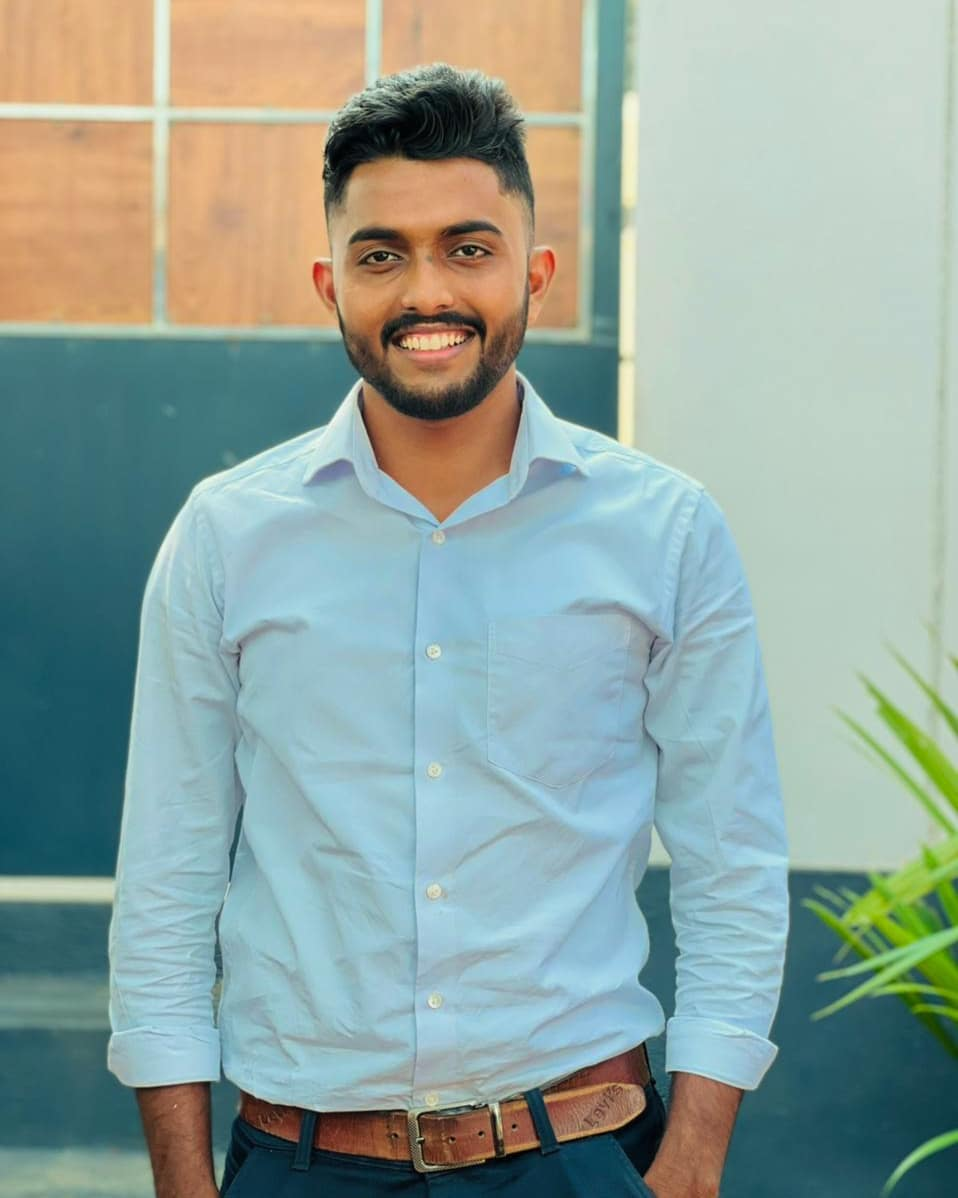
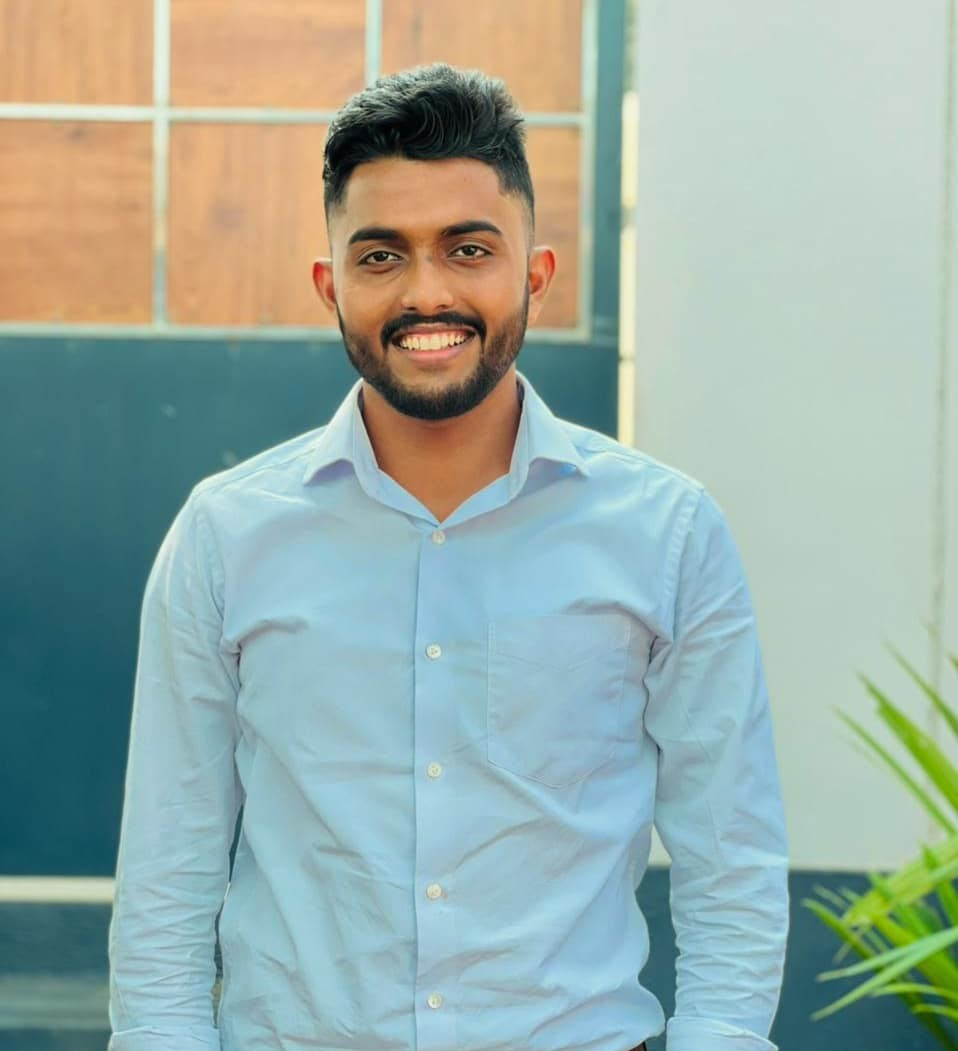
todays commit

diff --git a/src/pages/Inll.jsx b/src/pages/Inll.jsx
@@ -10,12 +10,13 @@ import {
   FaHandshake,
   FaDatabase,
   FaMoneyBillWave,
+  FaUser,
 } from "react-icons/fa";
 import bannerImage from "../assets/images/INLL Logo.png";
 import wawuLogo from "../assets/images/Wawu black.png";
 import whyINLLImage from "../assets/images/hero4.jpg";
 import highlightsImage from "../assets/images/hero5.jpg";
-import supportImage from "../assets/images/hero3.jpg";
+import supportImage from "../assets/images/WAWU P3.jpg";
 import registrationImage from "../assets/images/INLL Logo.png";
 
 const INLLBrochure = () => {
@@ -24,7 +25,7 @@ const INLLBrochure = () => {
   return (
     <div className="font-sans text-black">
       {/* Hero Section */}
-      <header className="relative bg-cover bg-gradient-to-r from-[#bbbaba] to-[#0A4A6E] bg-center h-auto flex flex-col items-center justify-between px-4 sm:px-8 py-8 sm:py-12 z-10">
+      <header className="relative bg-cover bg-gradient-to-r from-[#7f7f7f] to-[#0A4A6E] bg-center h-auto flex flex-col items-center rounded-tr-full rounded-bl-full justify-between px-4 sm:px-8 py-8 sm:py-12 z-10">
         <div className="w-full max-w-screen-lg">
           {/* Left Content */}
           <div className="bg-opacity-50 p-4 sm:p-8 rounded-lg text-center md:text-left">
@@ -102,7 +103,7 @@ const INLLBrochure = () => {
         </motion.div>
       </section>
 
-      {/* Highlights Section */}
+      {/* Why INLL Section */}
       <section className="max-w-6xl mx-auto py-12 sm:py-20 px-4 sm:px-8">
         <motion.h2
           className="text-3xl sm:text-4xl md:text-5xl font-extrabold mb-8 sm:mb-12 text-center text-black tracking-wider uppercase"
@@ -266,9 +267,10 @@ const INLLBrochure = () => {
       </section>
 
       {/* Post-Selection Support */}
-      <section className="max-w-6xl mx-auto py-12 sm:py-20 px-4 sm:px-8">
+      <section className="max-w-6xl mx-auto py-16 sm:py-24 px-6 sm:px-12">
+        {/* Title */}
         <motion.h2
-          className="text-3xl sm:text-4xl md:text-5xl font-extrabold mb-8 sm:mb-12 text-center text-black tracking-wide uppercase"
+          className="text-3xl sm:text-4xl md:text-5xl font-extrabold text-center text-gray-900 mb-12 tracking-wide"
           initial={{ opacity: 0, y: -30 }}
           whileInView={{ opacity: 1, y: 0 }}
           transition={{ duration: 0.8 }}
@@ -276,144 +278,137 @@ const INLLBrochure = () => {
           Post-Selection Support
         </motion.h2>
 
-        <div className="flex flex-col-reverse md:flex-row items-center gap-8 sm:gap-12">
-          {/* Left Side: Feature Cards */}
+        <div className="grid grid-cols-1 md:grid-cols-2 gap-12 items-center">
+          {/* Left: Image */}
           <motion.div
-            className="w-full md:w-1/2 grid grid-cols-1 sm:grid-cols-2 gap-4 sm:gap-6"
-            initial={{ opacity: 0, x: -50 }}
+            className="relative flex justify-center"
+            initial={{ opacity: 0, scale: 0.9 }}
+            whileInView={{ opacity: 1, scale: 1 }}
+            transition={{ duration: 0.7 }}
+          >
+            <img
+              src={supportImage}
+              alt="Post-Selection Support"
+              className="rounded-2xl shadow-2xl max-w-xs sm:max-w-md md:max-w-lg lg:max-w-xl h-auto hover:scale-105 transition-transform duration-500"
+            />
+          </motion.div>
+
+          {/* Right: Benefits List */}
+          <motion.div
+            className="space-y-8"
+            initial={{ opacity: 0, x: 50 }}
             whileInView={{ opacity: 1, x: 0 }}
             transition={{ duration: 0.7 }}
           >
             {[
               {
-                icon: (
-                  <FaDatabase className="text-3xl sm:text-4xl text-blue-400" />
-                ),
+                icon: <FaDatabase className="text-4xl text-blue-500" />,
                 title: "Continuous Tracking",
                 description:
-                  "Recorded in WAWU database for ongoing development.",
+                  "Your journey is recorded in WAWU’s database for ongoing growth and development.",
               },
               {
-                icon: (
-                  <FaMoneyBillWave className="text-3xl sm:text-4xl text-yellow-400" />
-                ),
+                icon: <FaMoneyBillWave className="text-4xl text-yellow-500" />,
                 title: "Funding & Training",
                 description:
-                  "Receive funding for training, accommodation, and education.",
+                  "We provide funding support for training, accommodation, and education.",
               },
               {
-                icon: (
-                  <FaUsers className="text-3xl sm:text-4xl text-green-400" />
-                ),
+                icon: <FaUsers className="text-4xl text-green-500" />,
                 title: "Professional Network",
                 description:
-                  "Connect with mentors and clubs for career growth.",
+                  "Gain exclusive access to mentors, clubs, and career opportunities.",
               },
             ].map((item, index) => (
-              <motion.div
+              <div
                 key={index}
-                className="bg-gray-900 bg-opacity-80 p-4 sm:p-6 rounded-xl shadow-lg hover:shadow-2xl border border-gray-700 transition-all duration-300 hover:scale-105 transform"
-                initial={{ opacity: 0, x: -20 }}
-                whileInView={{ opacity: 1, x: 0 }}
-                transition={{ duration: 0.5, delay: index * 0.2 }}
+                className="flex items-center space-x-6 p-4 rounded-xl bg-white shadow-lg hover:shadow-2xl transition-shadow duration-300"
               >
-                <div className="flex justify-center mb-4">{item.icon}</div>
-                <h3 className="text-lg sm:text-xl font-semibold text-center text-white">
-                  {item.title}
-                </h3>
-                <p className="text-xs sm:text-sm text-gray-400 text-center mt-2">
-                  {item.description}
-                </p>
-              </motion.div>
+                <div className="bg-gradient-to-br from-gray-200 to-gray-100 p-4 rounded-full shadow-md">
+                  {item.icon}
+                </div>
+                <div>
+                  <h3 className="text-xl font-semibold text-gray-900">{item.title}</h3>
+                  <p className="text-gray-600">{item.description}</p>
+                </div>
+              </div>
             ))}
-          </motion.div>
-
-          {/* Right Side: Image */}
-          <motion.div
-            className="w-full md:w-1/2 relative"
-            initial={{ opacity: 0, scale: 0.8 }}
-            whileInView={{ opacity: 1, scale: 1 }}
-            transition={{ duration: 0.7 }}
-          >
-            <div className="absolute inset-0 bg-gradient-to-r from-blue-500 to-purple-600 opacity-40 rounded-lg blur-lg"></div>
-            <img
-              src={supportImage}
-              alt="Post-Selection Support"
-              className="rounded-lg shadow-2xl w-full h-auto transform hover:scale-105 transition-transform duration-500"
-            />
           </motion.div>
         </div>
       </section>
 
-      {/* Registration */}
-      <section className="max-w-6xl mx-auto py-12 sm:py-20 px-4 sm:px-8">
+
+      <section className="max-w-7xl mx-auto py-16 px-6 sm:px-12 lg:px-16">
+        {/* Section Heading */}
         <motion.h2
-          className="text-3xl sm:text-4xl md:text-5xl font-extrabold mb-8 sm:mb-12 text-center text-black tracking-wide uppercase"
+          className="text-4xl sm:text-5xl font-bold mb-12 text-center text-gray-900 tracking-wide uppercase"
           initial={{ opacity: 0, y: -30 }}
           whileInView={{ opacity: 1, y: 0 }}
           transition={{ duration: 0.8 }}
         >
-          Register Now !!!
+          Registration
         </motion.h2>
-        <div className="flex flex-col md:flex-row items-center gap-6 sm:gap-8">
-          {/* Left Side: Image with Hover Effect */}
-          <div className="w-full md:w-1/2 transform transition-transform duration-300 hover:scale-105">
+
+        <div className="flex flex-col md:flex-row items-center gap-10">
+          {/* Left Side: Image */}
+          <motion.div
+            className="w-full md:w-1/2 overflow-hidden rounded-xl shadow-xl"
+            initial={{ opacity: 0, scale: 0.9 }}
+            whileInView={{ opacity: 1, scale: 1 }}
+            transition={{ duration: 0.7 }}
+          >
             <img
               src={registrationImage}
               alt="Registration"
-              className="rounded-lg shadow-2xl w-full h-auto"
+              className="w-full h-auto object-cover transform hover:scale-105 transition-transform duration-500"
             />
-          </div>
+          </motion.div>
 
-          {/* Right Side: Registration Details with Gradient Background */}
-          <div className="w-full md:w-1/2 bg-gradient-to-r from-[#11698E] to-[#0A4A6E] p-6 sm:p-8 rounded-lg shadow-2xl text-center transform transition-transform duration-300 hover:scale-105">
-            <h2 className="text-2xl sm:text-3xl md:text-4xl font-semibold mb-6 sm:mb-8 text-white">
-              How to Register
-            </h2>
+          {/* Right Side: Registration Options */}
+          <motion.div
+            className="w-full md:w-1/2 bg-gradient-to-r from-[#0F3460] to-[#16213E] p-8 sm:p-12 rounded-xl shadow-xl text-center border border-gray-700"
+            initial={{ opacity: 0, x: 50 }}
+            whileInView={{ opacity: 1, x: 0 }}
+            transition={{ duration: 0.7 }}
+          >
+            <h3 className="text-3xl font-semibold text-white mb-6">
+              Choose Your Registration Type
+            </h3>
 
-            {/* Registration Steps with Icons */}
-            <div className="space-y-4 sm:space-y-6">
-              <div className="flex items-center space-x-4">
-                <div className="bg-white p-2 sm:p-3 rounded-full">
-                  <FaSearch className="text-xl sm:text-2xl text-[#11698E]" />
-                </div>
-                <p className="text-sm sm:text-lg text-white">
-                  Complete the registration form online.
-                </p>
-              </div>
+            <div className="flex flex-col sm:flex-row justify-center gap-6">
+              {/* Individual Button */}
+              <Link to="/register/individual">
+                <button className="flex items-center gap-3 bg-blue-500 hover:bg-blue-700 text-white font-semibold py-3 px-6 rounded-lg shadow-lg transition-all duration-300 transform hover:scale-110">
+                  <FaUser className="text-xl" /> Individual
+                </button>
+              </Link>
 
-              <div className="flex items-center space-x-4">
-                <div className="bg-white p-2 sm:p-3 rounded-full">
-                  <FaMoneyBillWave className="text-xl sm:text-2xl text-[#11698E]" />
-                </div>
-                <p className="text-sm sm:text-lg text-white">
-                  Participation is free of charge.
-                </p>
-              </div>
-
-              <div className="flex items-center space-x-4">
-                <div className="bg-white p-2 sm:p-3 rounded-full">
-                  <FaGlobe className="text-xl sm:text-2xl text-[#11698E]" />
-                </div>
-                <p className="text-sm sm:text-lg text-white">
-                  Attend the trials at your nearest city.
-                </p>
-              </div>
+              {/* Organizing Partner Button */}
+              <Link to="/register/partner">
+                <button className="flex items-center gap-3 bg-green-500 hover:bg-green-700 text-white font-semibold py-3 px-6 rounded-lg shadow-lg transition-all duration-300 transform hover:scale-110">
+                  <FaUsers className="text-xl" /> Organizing Partner
+                </button>
+              </Link>
             </div>
-
-            {/* Registration Button */}
-            <div className="mt-6 sm:mt-8">
-              <a
-                href={googleFormLink}
-                target="_blank"
-                rel="noopener noreferrer"
-                className="bg-yellow-400 text-[#0A4A6E] px-4 sm:px-6 py-2 sm:py-3 text-sm sm:text-lg font-semibold rounded-lg shadow-md hover:bg-yellow-500 transition duration-300"
-              >
-                Register Now
-              </a>
-            </div>
-          </div>
+          </motion.div>
         </div>
+
+        {/* How to Register Section */}
+        <motion.div
+          className="mt-16 bg-gradient-to-r from-[#0F3460] to-[#16213E] p-8 sm:p-10 rounded-tr-full shadow-lg text-center border border-gray-200"
+          initial={{ opacity: 0, y: 30 }}
+          whileInView={{ opacity: 1, y: 0 }}
+          transition={{ duration: 0.7 }}
+        >
+          <h3 className="text-3xl font-semibold text-white mb-5">
+            How to Register
+          </h3>
+          <div className="space-y-3 text-lg text-white">
+            <p>✅ Complete the registration form online.</p>
+            <p>✅ Participation is free of charge.</p>
+            <p>✅ Attend the trials at your nearest city.</p>
+          </div>
+        </motion.div>
       </section>
     </div>
   );

diff --git a/src/pages/Mission.jsx b/src/pages/Mission.jsx
@@ -7,7 +7,7 @@ const MissionVision = () => {
     <section className=" bg-transparent bg-opacity-50 py-16 px-6">
       <div className="max-w-6xl mx-auto grid grid-cols-1 md:grid-cols-2 gap-12">
         {/* Mission Section */}
-        <div className="relative flex flex-col items-center text-center bg-[#11698E] shadow-lg rounded-2xl p-8 transition transform hover:scale-105">
+        <div className="relative flex flex-col items-center text-center bg-[#11698E] shadow-lg rounded-tr-full rounded-bl-full p-8 transition transform hover:scale-105">
           <img
             src={missionImg}
             alt="Mission"
@@ -38,7 +38,7 @@ const MissionVision = () => {
         </div>
 
         {/* Vision Section */}
-        <div className="relative flex flex-col items-center text-center bg-[#11698E] shadow-lg rounded-2xl p-8 transition transform hover:scale-105">
+        <div className="relative flex flex-col items-center text-center bg-[#11698E] shadow-lg rounded-br-full rounded-tl-full p-8 transition transform hover:scale-105">
           <img
             src={visionImg}
             alt="Vision"

diff --git a/src/components/Navbar.jsx b/src/components/Navbar.jsx
@@ -101,7 +101,7 @@ const Navbar = () => {
 
           {/* Mobile Menu Button */}
           <button
-            className="md:hidden text-white"
+            className="md:hidden text-black"
             onClick={() => setIsOpen(!isOpen)}
           >
             {isOpen ? <X size={28} /> : <Menu size={28} />}
@@ -118,7 +118,7 @@ const Navbar = () => {
           ></div>
 
           <div
-            className={`fixed top-0 left-0 w-3/4 max-w-sm h-full bg-white shadow-lg z-50 p-6 transition-transform transform ${
+            className={`fixed top-0 left-0 w-3/4 max-w-sm h-full bg-black shadow-lg z-50 p-6 transition-transform transform ${
               isOpen ? "translate-x-0" : "-translate-x-full"
             }`}
           >

diff --git a/src/pages/Events.jsx b/src/pages/Events.jsx
@@ -16,7 +16,7 @@ const Events = () => {
   };
 
   return (
-    <div className="relative bg-[#11698E] text-white py-20 px-6">
+    <div className="relative bg-[#11698E] text-white py-20 px-6 rounded-bl-full">
       {/* Heading at the Top */}
       <motion.h1
         className="text-5xl font-extrabold mb-12 text-center italic font-sans bg-gradient-to-r from-[#fa7e02] via-white to-[#1bde09] bg-clip-text text-transparent"

diff --git a/src/pages/About.jsx b/src/pages/About.jsx
@@ -2,7 +2,7 @@ import React from "react";
 
 const About = () => {
   return (
-    <div id="about" className="p-12 text-center bg-[#11698E] text-white">
+    <div id="about" className="p-12 text-center bg-[#11698E] text-white rounded-b-full">
       {/* Heading with better contrast and emphasis */}
       <h1 className="text-4xl font-extrabold text-white uppercase tracking-wide">
         About Us

diff --git a/src/pages/Team.jsx b/src/pages/Team.jsx
@@ -4,7 +4,7 @@ import { FaInstagram, FaFacebook, FaLinkedin, FaXTwitter } from "react-icons/fa6
 
 // Correct Imports for Local Images
 import shafiImage from "../assets/images/IMG_3596.png";
-import ckImage from "../assets/images/vineeth.jpg";
+import ckImage from "../assets/images/WAWUP4.jpg";
 import abidImage from "../assets/images/abid.jpg";
 
 
